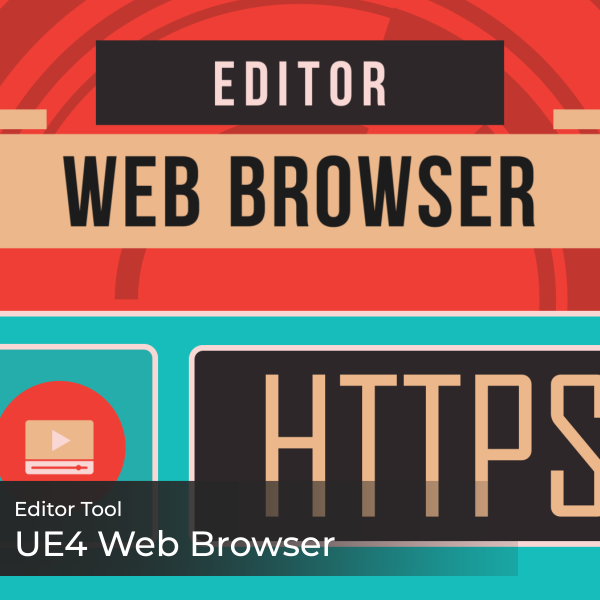
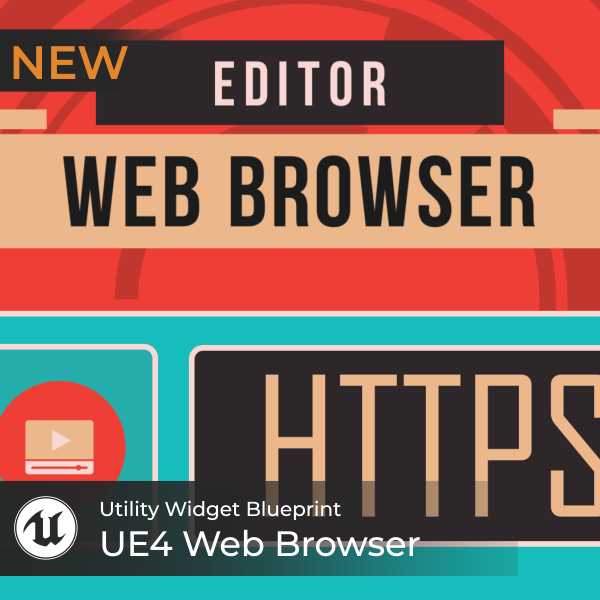
Updated index page with coming soon portfolio projects
Added new thumbs, organized categories

Changed region(s): [[0.0, 0.81, 0.69, 0.93], [0.0, 0.03, 0.3, 0.18]]

diff --git a/index.html b/index.html
@@ -196,11 +196,20 @@
 								<ul class="arlo_tm_portfolio_filter">
 									<li><a href="#" class="current" data-filter="*">All</a></li>
 									<li><a href="#" data-filter=".project">Projects</a></li>
-									<li><a href="#" data-filter=".blueprints">Scripting</a></li>
-									<li><a href="#" data-filter=".leveldesign">Tools</a></li>
+									<li><a href="#" data-filter=".tools">Scripts/Tools</a></li>
+									<li><a href="#" data-filter=".prototypes">Prototypes</a></li>
+
 									
 								</ul>
 								<ul class="arlo_tm_portfolio_list gallery_zoom">
+									<li class="tools">
+										<div class="entry arlo_tm_portfolio_animation_wrap" data-title="WebBrowser for UE4" data-category="Editor Tool">
+											<a href="portfolio-ue4webbrowser.html">
+												<img src="img/portfolio/webbrowser/thumb.png" alt="" />
+												<div class="arlo_tm_portfolio_image_main" data-img-url="img/portfolio/webbrowser/thumb.png"></div>
+											</a>
+										</div>
+									</li>
 									<li class="project">
 										<div class="entry arlo_tm_portfolio_animation_wrap" data-title="Solar System Simulator" data-category="Interactive Application">
 											<a href="portfolio-sss.html">
@@ -209,27 +218,59 @@
 											</a>
 										</div>
 									</li>
-									<li class="blueprints">
-										<div class="entry arlo_tm_portfolio_animation_wrap" data-title="Voice Recognition" data-category="Prototype">
+									<li class="prototypes">
+										<div class="entry arlo_tm_portfolio_animation_wrap" data-title="Voice Recognition" data-category="Rapid Prototype">
 											<a href="portfolio-voicerecog.html">
 												<img src="img/portfolio/voicerecog/thumb.jpg" alt="" />
 												<div class="arlo_tm_portfolio_image_main" data-img-url="img/portfolio/voicerecog/thumb.jpg"></div>
 											</a>
 										</div>
 									</li>
-									<li class="project">
-										<div class="entry arlo_tm_portfolio_animation_wrap" data-title="PickPon" data-category="Game Project">
-											<a href="portfolio-pickpon.html">
-												<img src="img/portfolio/pickpon/thumb.jpg" alt="" />
-												<div class="arlo_tm_portfolio_image_main" data-img-url="img/portfolio/pickpon/thumb.jpg"></div>
+									<li class="tools">
+										<div class="entry arlo_tm_portfolio_animation_wrap" data-title="Wardens" data-category="Editor Scripts">
+											<a href="#">
+												<img src="img/portfolio/wardens/thumb.png" alt="" />
+												<div class="arlo_tm_portfolio_image_main" data-img-url="img/portfolio/wardens/thumb.png"></div>
 											</a>
 										</div>
 									</li>
-									<li class="leveldesign">
-										<div class="entry arlo_tm_portfolio_animation_wrap" data-title="WebBrowser" data-category="Editor Tool">
-											<a href="portfolio-ue4webbrowser.html">
-												<img src="img/portfolio/webbrowser/thumb.png" alt="" />
-												<div class="arlo_tm_portfolio_image_main" data-img-url="img/portfolio/webbrowser/thumb.png"></div>
+									<li class="project">
+										<div class="entry arlo_tm_portfolio_animation_wrap" data-title="Dinozards" data-category="Game Project">
+											<a href="#">
+												<img src="img/portfolio/dinozards/thumb.png" alt="" />
+												<div class="arlo_tm_portfolio_image_main" data-img-url="img/portfolio/dinozards/thumb.png"></div>
+											</a>
+										</div>
+									</li>
+									<li class="project">
+										<div class="entry arlo_tm_portfolio_animation_wrap" data-title="Rest A-Shored" data-category="Game Project">
+											<a href="#">
+												<img src="img/portfolio/restashored/thumb.png" alt="" />
+												<div class="arlo_tm_portfolio_image_main" data-img-url="img/portfolio/restashored/thumb.png"></div>
+											</a>
+										</div>
+									</li>
+									<li class="project">
+										<div class="entry arlo_tm_portfolio_animation_wrap" data-title="PickPon" data-category="Game Project">
+											<a href="#">
+												<img src="img/portfolio/pickpon/thumb.png" alt="" />
+												<div class="arlo_tm_portfolio_image_main" data-img-url="img/portfolio/pickpon/thumb.png"></div>
+											</a>
+										</div>
+									</li>
+									<li class="project">
+										<div class="entry arlo_tm_portfolio_animation_wrap" data-title="OneHape" data-category="GMTK 2019 Game Jam Project">
+											<a href="#">
+												<img src="img/portfolio/oneshape/thumb.png" alt="" />
+												<div class="arlo_tm_portfolio_image_main" data-img-url="img/portfolio/oneshape/thumb.png"></div>
+											</a>
+										</div>
+									</li>
+									<li class="project">
+										<div class="entry arlo_tm_portfolio_animation_wrap" data-title="Mompas" data-category="Game Project">
+											<a href="#">
+												<img src="img/portfolio/mompas/thumb.png" alt="" />
+												<div class="arlo_tm_portfolio_image_main" data-img-url="img/portfolio/mompas/thumb.png"></div>
 											</a>
 										</div>
 									</li>

diff --git a/portfolio-pickpon.html b/portfolio-pickpon.html
@@ -293,7 +293,7 @@
 								<h2>Local Multiplayer</h2>
 								<br>
 								
-								<p>I scripted the local multiplayer system for <strong>2-4 players, splitted screens gameplay</strong>. I started creating a <strong>lobby</strong> where players can join the local session by pressing "Start". The controller and pawn information gets stored in the <strong>Game Instance class for map transitions.</strong> When the gameplay level is loaded, the <strong>Game Mode class gets the data from GI class</strong> assigning each pawn to its current player controller, setting the conditions to start the match and <strong>activating the camera Split-screen.</strong></p>
+								<p>I scripted the local multiplayer system for <strong>2-4 players, splitted screens gameplay</strong>. I started creating a <strong>lobby</strong> where players can join the local session by pressing "Start". The controller and pawn information gets stored in the <strong>Game Instance class for map transitions.</strong> After loading the gameplay level, <strong>Game Mode class</strong> retrive that GI information and <strong>sets player pawns to their correct player controller</strong>, and set the conditions to start the match <strong>activating the camera Split-screen mode.</strong></p>
 								<br>
 								
 						<button class="collapsible">Click here to see the Split-Screen code snipet and blueprint function</button>
